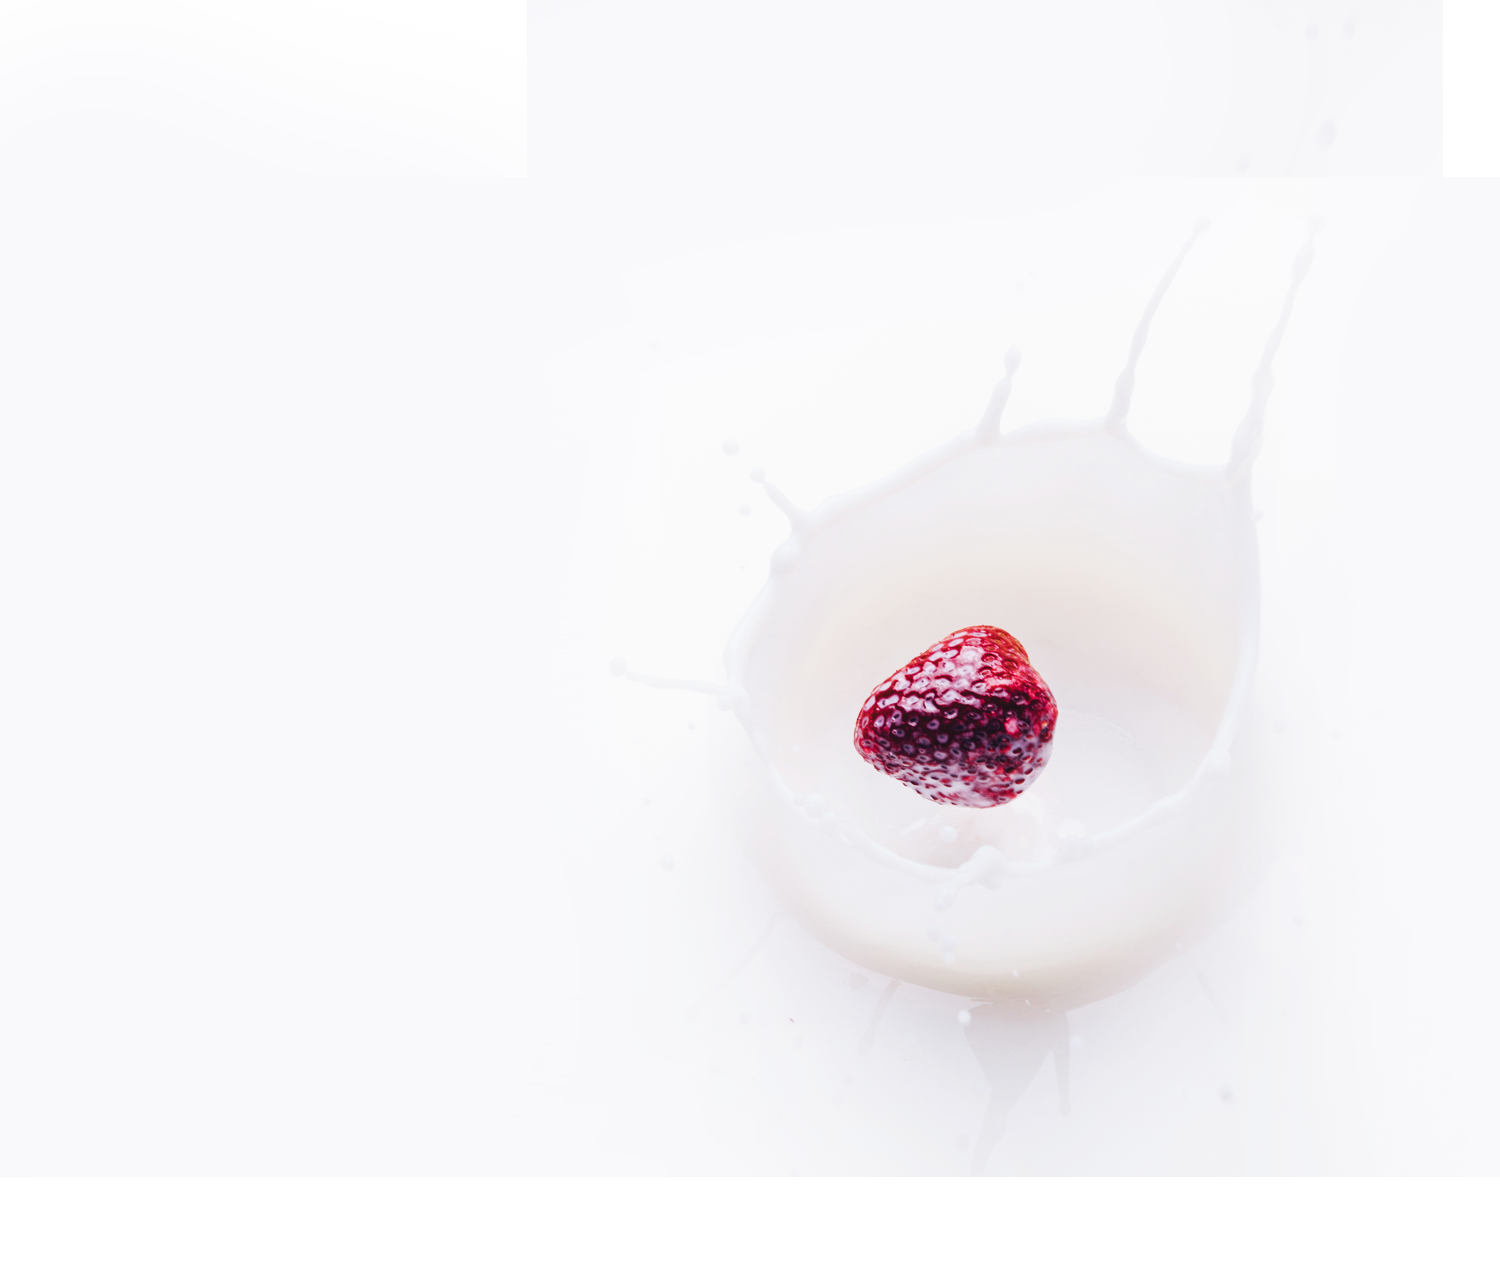
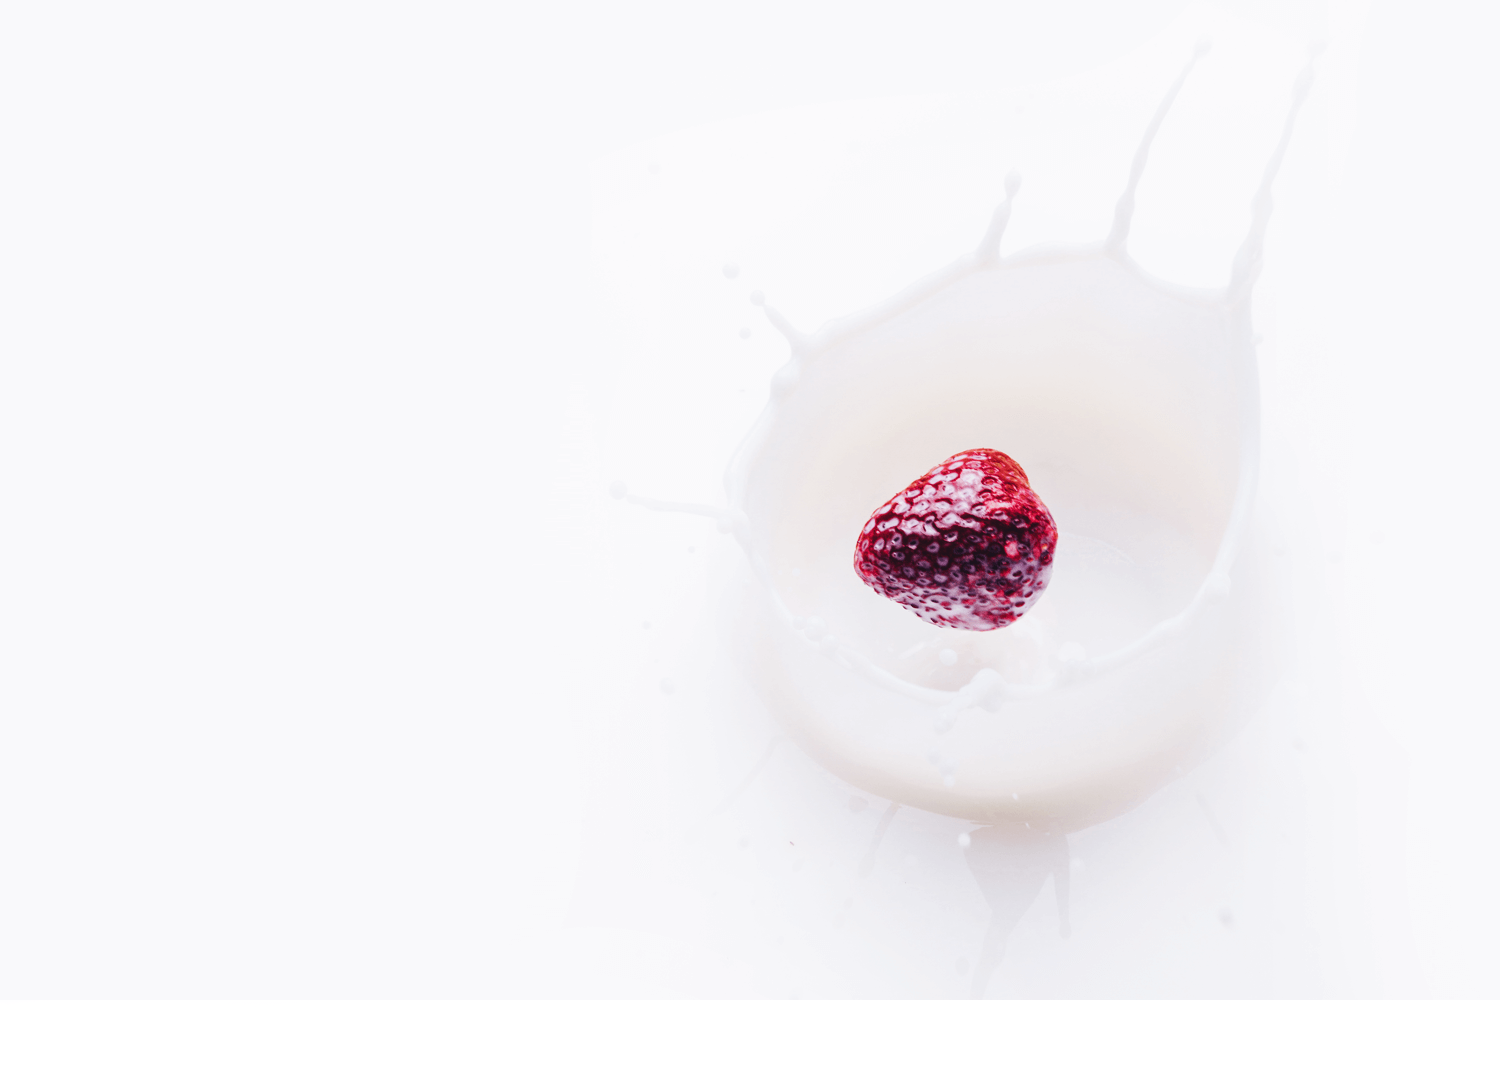
1

Changed region(s): [[0.552, 0.3947, 0.7053, 0.6375], [0.5827, 0.6983, 0.736, 0.8197]]

diff --git a/index.html b/index.html
@@ -4,106 +4,169 @@
     <meta charset="utf-8">
     <meta name="viewport" content="width=device-width, initial-scale=1, shrink-to-fit=no">
     <link rel="stylesheet" href="css/style1.css">
+    <link href="https://fonts.googleapis.com/css?family=Lato:400,700,900" rel="stylesheet">
     <title>WeeklyDev 2</title>
 </head>
 <body>
 <div class="main">
-    <section class='home' id='homesection'>
-        <header class="flex">
-            <img class="img_logo" src='img/logo.png' alt="Cahee" >
-            <nav class="flex navbox">
-                <div class="nav_item"><a href="#homesection">HOME</a></div>
-                <div class="nav_item"><a href="#aboutussection">ABOUT</a></div>
-                <div class="nav_item"><a href="#servicessection">SERVICES</a></div>
-                <div class="nav_item"><a href="#gallerysection">GALLERY</a></div>
-                <div class="nav_item"><a href="#blogsection">BLOG</a></div>
-                <div class="nav_item"><a href="#contactsection">CONTACT</a></div>
-            </nav>
-        </header>
-        <h2>Fresh life</h2>
-        <p>Sed do eiusmod tempor incididunt ut labore et dolore magna aliqua. Ut enim ad minim veniam, quis nostrud exercitation ullamco.</p>
-        <button type="submit">GET FREE NOW</button>
-    </section>
-
-    <section class="aboutus" id='aboutussection'>
-        <img src="img/img2.png" alt="Cahee">
-        <div class="section_item">
-            <h1>About Us</h1>
-            <p>Abore Cahee magna aliqua. Ut enim ad minim veniam, quis nostrud exercitation ullamco laboris nisi ut aliquip ex ea commodo consequat. Duis aute irure dolor in reprehenderit in voluptate velit esse cillum.</p>
-            <p>Nim id est laborum. Sed ut perspiciatis unde omnis iste natus error sit voluptatem accusantium doloremque laudantium, totam rem aperiam, eaque ipsa quae ab illo inventore.</p>
+    <section class='home' id='home_section'>
+        <div class="section_content">
+            <header class="flex">
+                <img class="img_logo" src='img/logo.png' alt="Cahee" >
+                <nav class="flex nav_box">
+                    <a href="#home_section"><div class="nav_item">HOME</div></a>
+                    <a href="#aboutus_section"><div class="nav_item">ABOUT</div></a>
+                    <a href="#services_section"><div class="nav_item">SERVICES</div></a>
+                    <a href="#gallery_section"><div class="nav_item">GALLERY</div></a>
+                    <a href="#blog_section"><div class="nav_item">BLOG</div></a>
+                    <a href="#contact_section"><div class="nav_item">CONTACT</div></a>
+                </nav>
+            </header>
+            <h2>Fresh life</h2>
+            <p>
+                Sed do eiusmod tempor incididunt ut labore et dolore magna aliqua.
+                Ut enim ad minim veniam, quis nostrud exercitation ullamco.
+            </p>
+            <button type="submit">GET FREE NOW</button>
         </div>
     </section>
 
-    <section class='services' id='servicessection'>
-        <div class="buttonsbox">
-            <a href="#">
-                <div>
-                    Online Shopping
-                </div>
-                <img src="img/icon1.png">
-            </a>
-            <a href="#">
-                <div>
-                    Quality Product
-                </div>
-                <img src="img/icon2.png">
-            </a>
-            <a href="#">
-                <div>
-                    Domestic & International Delivery
-                </div>
-                <img src="img/icon3.png">
-            </a>
-            <a href="#">
-                <div>
-                    Well organised
-                </div>
-                <img src="img/icon4.png">
-            </a>
+    <section class="aboutus" id='aboutus_section'>
+        <div class="section_content">
+            <img src="img/img2.png" alt="Cahee">
+            <div class="section_item">
+                <h1>About Us</h1>
+                <p>
+                    Abore Cahee magna aliqua.
+                    Ut enim ad minim veniam,
+                    quis nostrud exercitation ullamco laboris nisi ut aliquip ex ea commodo consequat.
+                    Duis aute irure dolor in reprehenderit in voluptate velit esse cillum.
+                </p>
+                <p>
+                    Nim id est laborum.
+                    Sed ut perspiciatis unde omnis iste natus error sit voluptatem accusantium doloremque laudantium,
+                    totam rem aperiam, eaque ipsa quae ab illo inventore.
+                </p>
+            </div>
         </div>
-        <h1>Our Services</h1>
     </section>
 
-    <section class='gallery' id='gallerysection'>
-        <h1>Gallery</h1>
-        <p>
-            Consectetur adipiscing elit,
-            sed do eiusmod tempor incididunt ut labore et dolore magna aliqua.
-            Ut enim ad minim veniam,
-            quis nostrud exercitation ullamco laboris nisi ut aliquip ex ea commodo consequat.
-        </p>
-        <div class="gallerybox">
-            <img src="img/img4.png">
-            <img src="img/img5.png">
-            <img src="img/img6.png">
-            <img src="img/img7.png">
-            <img src="img/img8.png">
+    <section class='services' id='services_section'>
+        <div class="section_content">
+            <div class="buttons_box">
+                <a href="#">
+                    <div>
+                        Online Shopping
+                    </div>
+                    <img src="img/icon1.png">
+                </a>
+                <a href="#">
+                    <div>
+                        Quality Product
+                    </div>
+                    <img src="img/icon2.png">
+                </a>
+                <a href="#">
+                    <div>
+                        Domestic & International Delivery
+                    </div>
+                    <img src="img/icon3.png">
+                </a>
+                <a href="#">
+                    <div>
+                        Well organised
+                    </div>
+                    <img src="img/icon4.png">
+                </a>
+            </div>
+            <h1>Our Services</h1>
         </div>
-        <button>VIEW MORE</button>
+    </section>
+
+    <section class='gallery' id='gallery_section'>
+        <div class="section_content">
+            <h1>Gallery</h1>
+            <p>
+                Consectetur adipiscing elit,
+                sed do eiusmod tempor incididunt ut labore et dolore magna aliqua.
+                Ut enim ad minim veniam,
+                quis nostrud exercitation ullamco laboris nisi ut aliquip ex ea commodo consequat.
+            </p>
+            <div class="gallery_box">
+                <img src="img/img4.png">
+                <img src="img/img5.png">
+                <img src="img/img6.png">
+                <img src="img/img7.png">
+                <img src="img/img8.png">
+            </div>
+            <button>VIEW MORE</button>
+        </div>
     </section>
 
     <section class='subscribe'>
-        <h3>Subscribe To Us</h3>
-        <p>
-            Dolor sit amet, consectetur adipiscing elit,
-            sed do eiusmod tempor incididunt ut labore et dolore magna aliqua.
-            Ut enim ad minim veniam
-        </p>
-        <label for="subscribe_email" hidden>Your email adress..</label>
-        <input type='email' placeholder="Your email adress.." id="subscribe_email">
-        <button type='submit'>SUBSCRIBE</button>
+        <div class="section_content">
+            <h3>Subscribe To Us</h3>
+            <p>
+                Dolor sit amet, consectetur adipiscing elit,
+                sed do eiusmod tempor incididunt ut labore et dolore magna aliqua.
+                Ut enim ad minim veniam
+            </p>
+            <label for="subscribe_email" hidden>Your email adress..</label>
+            <input type='email' placeholder="Your email adress.." id="subscribe_email">
+            <button type='submit'>SUBSCRIBE</button>
+        </div>
     </section>
 
-    <section>
-
+    <section class='blog' id='blog_section'>
+        <div class="section_content">
+            <h1>Blog</h1>
+            <p>
+                Dolore magna aliqua.
+                Ut enim ad minim veniam, quis nostrud exercitation ullamco laboris nisi ut aliquip ex ea commodo consequat.
+                Duis aute irure dolor in reprehenderit in voluptate velit
+            </p>
+            <div class="blog_gallerybox">
+                <div class="blog_item"></div>
+                <div class="blog_item"></div>
+                <div class="blog_item"></div>
+            </div>
+            <button>VIEW MORE</button>
+        </div>
     </section>
 
-    <section>
-
+    <section class='contact' id='contact_section'>
+        <div class="section_content">
+            <h1>Contact</h1>
+            <p>For new projects, ideas, business or anything<br> you'd like to discuss, contact with me!</p>
+            <form class='contact_forms'>
+                <input type='text' placeholder='Your name...'>
+                <input type='email' placeholder='Your email...'>
+                <input type='text' placeholder='Your phone number...'>
+                <textarea placeholder="Your message..."></textarea>
+            </form>
+            <div class="contact_info">
+                <span class="contact_item">
+                    <h5>ADDRESS</h5>
+                    <p>123 City name, Street, City, Country</p>
+                </span>
+                <span class="contact_item">
+                    <h5>EMAIL</h5>
+                    <p>cahee@example.com</p>
+                </span>
+                <span class="contact_item">
+                    <h5>PHONE</h5>
+                    <p>789 432 654</p>
+                </span>
+            </div>
+        </div>
     </section>
 
     <footer>
-
+        <div class="section_content">
+            <p>2019 Company. All right reserved.</p>
+            <img src='img/logo.png'>
+            <p>Made with <span class="love">love</span> by Auskteez</p>
+        </div>
     </footer>
 </div>
 </body>

diff --git a/css/style1.css b/css/style1.css
@@ -1,11 +1,69 @@
+html {
+    scroll-behavior: smooth;
+    font-family: 'Lato', sans-serif;
+}
+body {
+    margin: 0;
+}
 .main{
-    width:1100px;
+    width: 100%;
     min-height:2000px;
-    margin: -8px auto 0 auto;
-    background-color: rgba(0,0,0,0.1);
+    margin:0 auto;
+    background-color: #f9f9fb;
 }
 .flex{
     display:flex;
     flex-direction: row;
-    justify-content: space-around;
+}
+.section_content {
+    max-width:1000px;
+    margin:auto;
+}
+section, footer{
+    width: 100%;
+    margin: 0px;
+}
+section.home{
+    background: url('../img/img1.png') no-repeat center/cover;
+    height: 100vh;
+}
+header{
+    justify-content: space-between;
+    align-items: center;
+    height: 130px;
+}
+header img{
+    width: 115px;
+    padding-right: 40px;
+}
+nav{
+    width: 600px;
+    padding: 0 30px;
+}
+nav a div {
+    line-height: 50px;
+    text-align: center;
+}
+
+.nav_box a {
+    text-decoration: none;
+    color: black;
+    font-weight: bold;
+    width: 100px;
+    height: 50px;
+}
+.aboutus{
+    background-color: #01b1b1;
+}
+.services{
+    background-color: #70c0ff;
+}
+.gallery{
+    background-color: #fee92e;
+}
+.blog{
+    background-color: #b07cf8;
+}
+footer{
+    background-color: #262626;
 }
